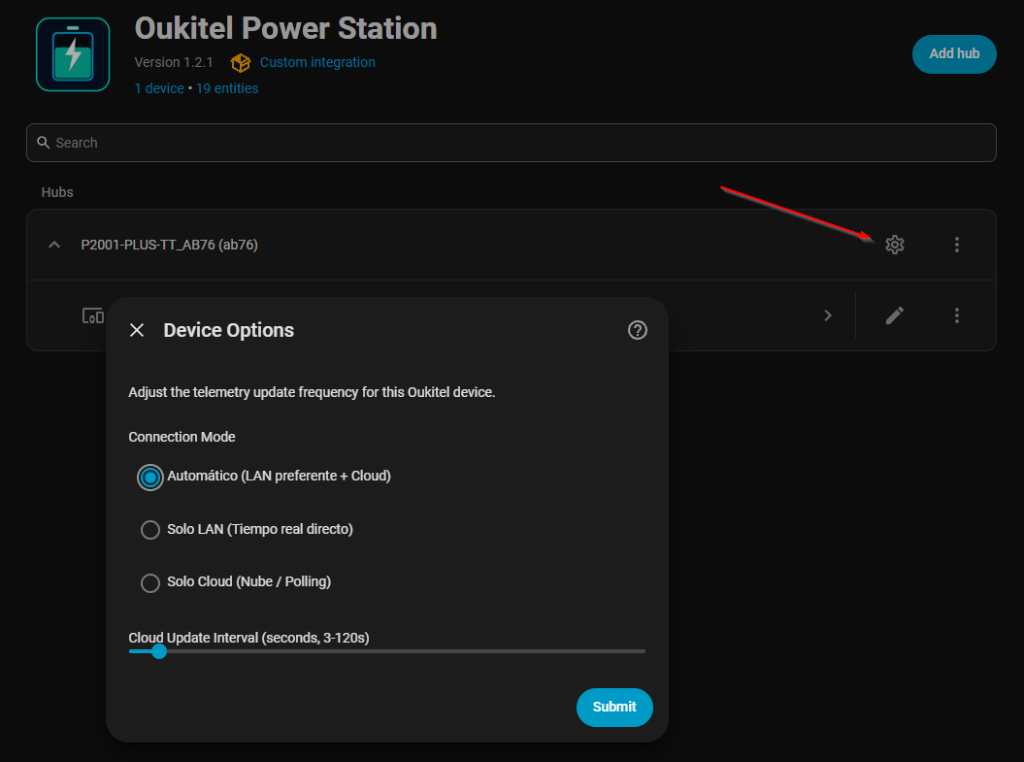
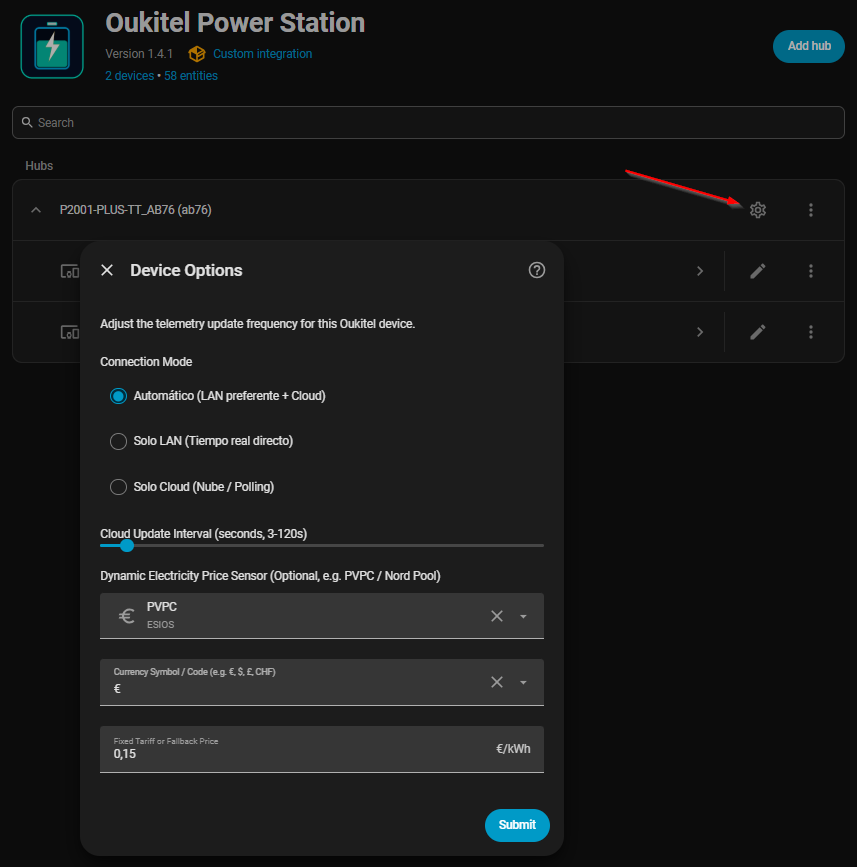
docs: update item 6 with comprehensive device options, modes, and tariffs screenshot

diff --git a/README.md b/README.md
@@ -112,9 +112,9 @@ Click the button below to add this repository directly to your HACS:
         <sub>Hub entry point with direct access to options and diagnostics.</sub>
       </td>
       <td width="50%" align="center">
-        <b>6. Dynamic Telemetry Frequency Options</b><br/><br/>
-        <img src="https://raw.githubusercontent.com/VictorCV-DAM/ha-oukitel/main/docs/images/04_options_frequency.png" alt="Options Frequency Dialog" width="95%"/><br/>
-        <sub>Modify update polling interval (3-120s) on-the-fly without re-logging.</sub>
+        <b>6. Device Options, Modes & Tariffs</b><br/><br/>
+        <img src="https://raw.githubusercontent.com/VictorCV-DAM/ha-oukitel/main/docs/images/04_options_frequency.png" alt="Device Options, Modes and Tariffs Dialog" width="95%"/><br/>
+        <sub>Configure connection modes (LAN/Cloud), telemetry frequency (3-120s), and dynamic energy tariffs (PVPC / Nord Pool).</sub>
       </td>
     </tr>
   </table>
